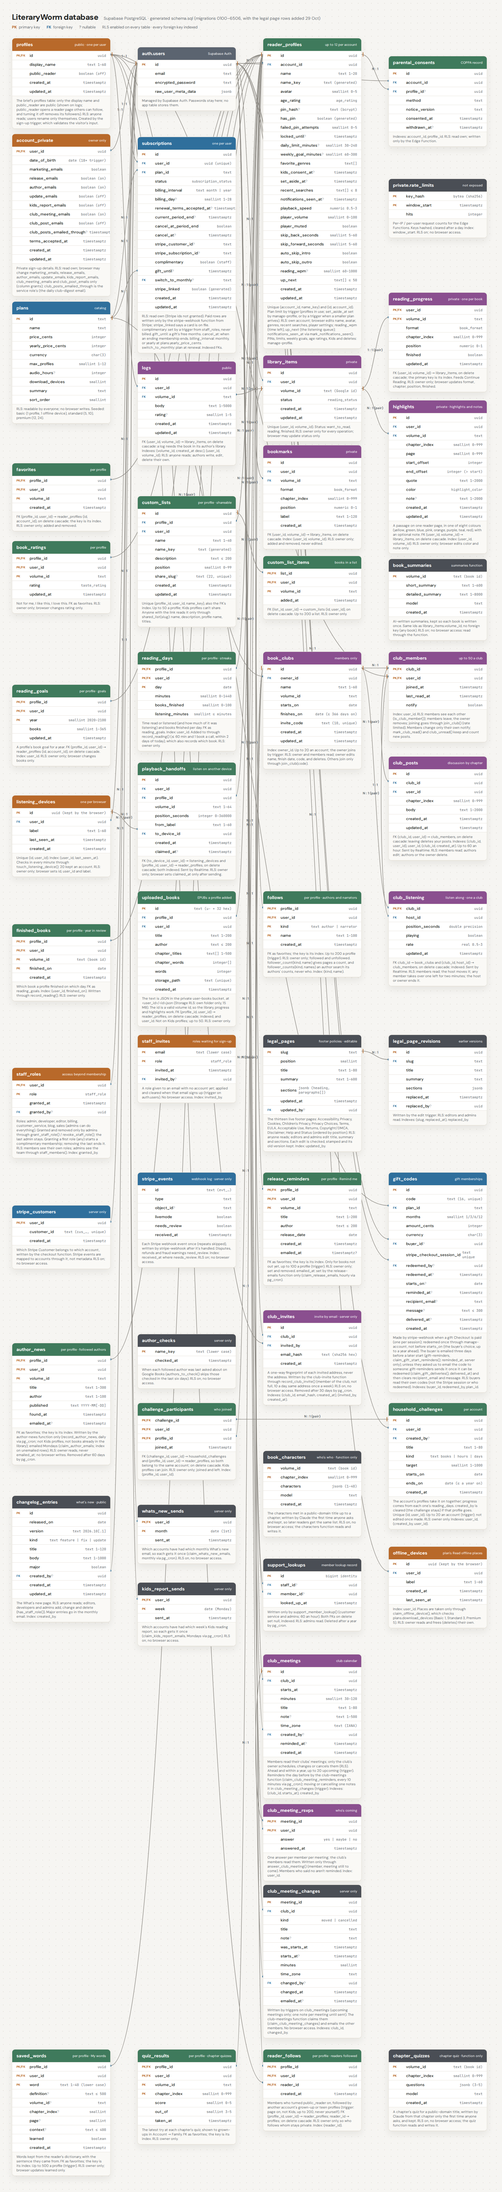
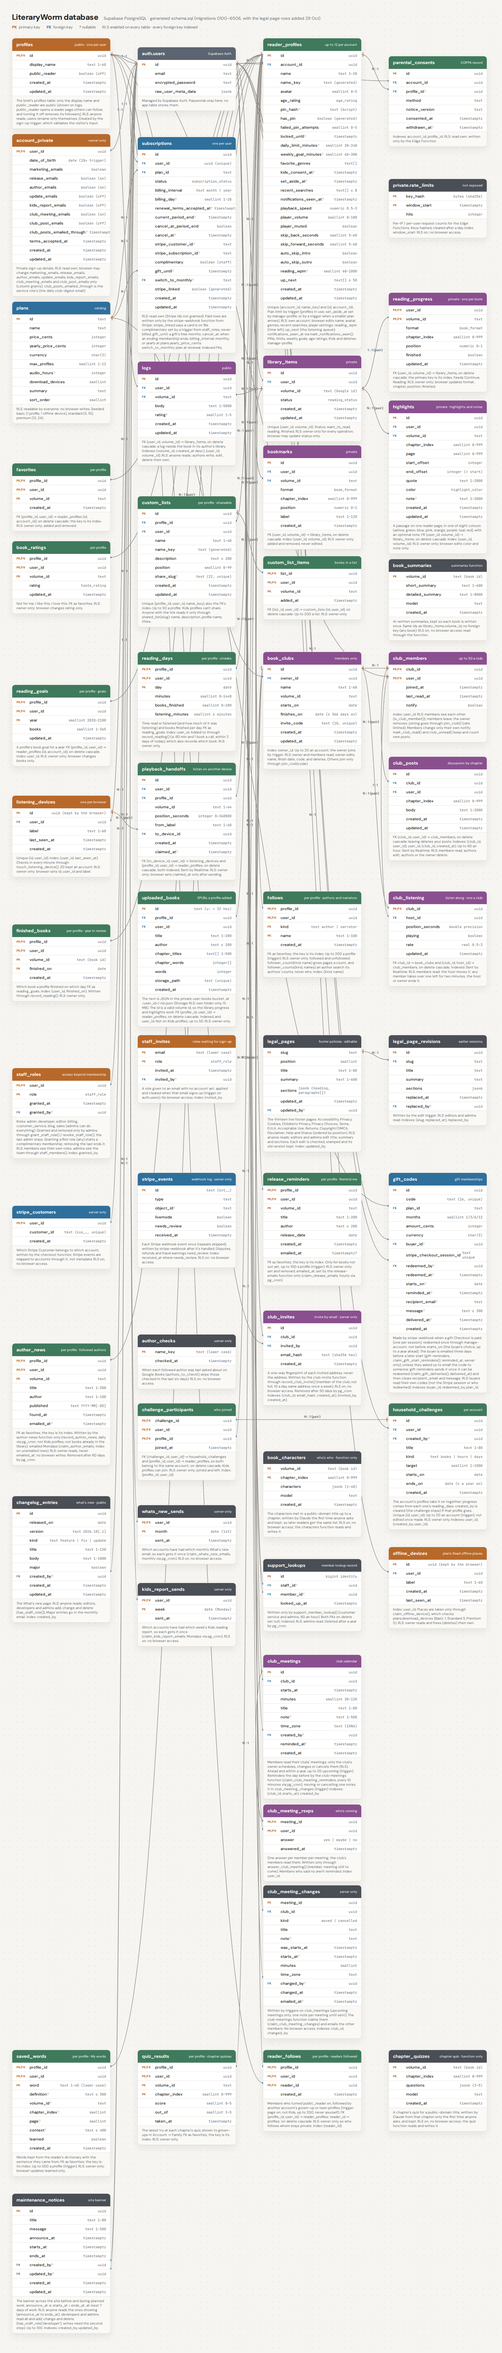
Docs: releasing dev first, maintenance notices, author Z–A; schema and ERD
docs/releasing.md explains dev first, then main: the dev branch and the
Supabase dev branch, migrations applied there first, CI, announcing planned
work, production migrations and functions, and scripts/promote.sh. CLAUDE.md,
user_journey 178-179, user_stories, the style guide, prompt.md and the app
README follow. schema.sql and drawsql.png gain maintenance_notices.

diff --git a/docs/erd/erd.html b/docs/erd/erd.html
@@ -532,6 +532,22 @@
           note: "A chapter's quiz for a public-domain title, written by Claude from that chapter only the first time anyone asks, and kept. RLS on, no browser access; the quiz function reads and writes it.",
         },
         {
+          id: "maintenance_notices", color: colors.server, x: 0, y: 7200, sub: "site banner",
+          cols: [
+            ["pk", "id", "uuid"],
+            ["", "title", "text 1–80"],
+            ["", "message", "text 1–500"],
+            ["", "announce_at", "timestamptz"],
+            ["", "starts_at", "timestamptz"],
+            ["", "ends_at", "timestamptz"],
+            ["fk", "created_by", "uuid", true],
+            ["fk", "updated_by", "uuid", true],
+            ["", "created_at", "timestamptz"],
+            ["", "updated_at", "timestamptz"],
+          ],
+          note: "The banner across the site before and during planned work; announce_at ≤ starts_at < ends_at, at most 7 days of work. RLS: anyone reads the ones showing (announce_at to ends_at); developers and admins read all and add, change and delete (has_staff_role('developer'); writes need the second step). Up to 100. Indexes: created_by, updated_by.",
+        },
+        {
           id: "book_characters", color: colors.server, x: 840, y: 4720, sub: "who's who · function only",
           cols: [
             ["pk", "volume_id", "text (book id)"],
@@ -846,6 +862,8 @@
         ["author_news", "profile_id", "reader_profiles", "id", "N : 1 (pair)"],
         ["household_challenges", "user_id", "auth.users", "id", "N : 1"],
         ["changelog_entries", "created_by", "auth.users", "id", "N : 1"],
+        ["maintenance_notices", "created_by", "auth.users", "id", "N : 1"],
+        ["maintenance_notices", "updated_by", "auth.users", "id", "N : 1"],
         ["whats_new_sends", "user_id", "auth.users", "id", "N : 1"],
         ["kids_report_sends", "user_id", "auth.users", "id", "N : 1"],
         ["club_meetings", "club_id", "book_clubs", "id", "N : 1"],

diff --git a/CLAUDE.md b/CLAUDE.md
@@ -10,6 +10,7 @@ LiteraryWorm is a reading and listening app (ebooks and audiobooks, household pr
 - `supabase/`: migrations, Edge Functions (`books`, `manage-profile`, `checkout`, `manage-account`, `stripe-webhook`, `release-emails`, `club-invite`, `author-news`, `dictionary`, `characters`, `whats-new`, `kids-report`, `club-meetings`, `club-digest`, `gift-reminders`, `club-calendar`, `unsubscribe`, `summaries`, `ask`, `quiz`), Auth email templates (`templates/`), security tests. See `supabase/README.md`. Project: `literaryworm` (ref `ldzdmrdvmacpudsbngvd`). The app is deployed on Vercel at `https://www.literaryworm.com`; `https://www.literaryworm.com`, `https://literaryworm.com` and `http://localhost:5173` must all be in the `ALLOWED_ORIGINS` function setting, or the browser blocks the functions' answers and the app reports "offline".
 - `schema.sql`: generated from the migrations by `supabase/build-schema.sh`; don't edit by hand. `drawsql.png` is its ERD, rendered from `docs/erd/erd.html`.
 - `prompt.md`: the build brief and phase plan.
+- `docs/releasing.md`: how a change reaches the live site, dev first (the `dev` branch, the Supabase dev branch `literaryworm-dev`, ref `xjvisabdztxvnsglysdh`, and the dev preview), then main through `scripts/promote.sh`.
 - `vite-project/`: an unrelated earlier scaffold. Don't use it.
 
 ## Commands (run in `front_end/literaryworm_app`)
@@ -76,6 +77,7 @@ npm run test:e2e  # Jest + Playwright smoke tests (e2e/*.e2e.ts) on the demo; mu
 - Modals use `src/components/Dialog.tsx` (native `<dialog>`). Profile-protected changes ask for the account password with `AccountPasswordField`.
 - **Two-step sign-in** (Supabase Auth MFA, TOTP; `accountApi.ts`, Account → Sign-in, the code step in `pages/SignIn.tsx`): `useAuthSync` sets `state.secondStep` and loads nothing until the code is given. Every member table has a restrictive policy `(select public.second_step_done())` (migration 2100): give any new member table one too, and make a new security-definer function check `second_step_done()`. `requireUser()` in the functions refuses a password-only session. Never sign in on the app's Supabase client to re-check a password (`verifyPassword()` asks Auth directly), or the session drops to password-only.
 - **Passkeys** (Supabase Auth WebAuthn, `auth.passkey.*`, `registerPasskey()`, `signInWithPasskey()`; supabase-js 2.105 or later, on by default since 2.117): the calls are in `accountApi.ts` (`listPasskeys()`, `addPasskey()`, which checks the account password with `verifyPassword()` first, `renamePasskey()`, `deletePasskey()`, `signInWithPasskey()`, which sets `signingInHere` like `signIn()`); rules and words in `lib/passkeys.ts` (`passkeyMessage()`, `passkeyNameError()`, `PASSKEY_NAME_MAX` 120, `passkeysSupported()`); the panel is `Passkeys` in `pages/Account.tsx`, the button on `pages/SignIn.tsx`. Production Auth must have passkeys on with relying party ID `literaryworm.com` and origins `https://www.literaryworm.com,https://literaryworm.com`; never change the ID once members have passkeys (every passkey stops working). A passkey replaces the password, not the second step: `useAuthSync` still asks for the code when two-step is on. The keys live in Supabase's `auth.webauthn_credentials`; never read it from the browser. Keep the Privacy Policy, Cookie Policy and Help saying what's kept.
+- **Maintenance notices** (`lib/maintenance.ts` for the rules and times, `lib/maintenanceApi.ts`, `components/MaintenanceBanner.tsx` above the header in `SiteLayout`, `pages/Maintenance.tsx` at `/maintenance`, lazy-loaded, linked from Team access): `maintenance_notices` (title, message, `announce_at` ≤ `starts_at` < `ends_at`, at most 7 days of work announced at most 30 days ahead, up to 100; a trigger sets `created_by`, `updated_by` and the times). RLS: anyone reads the ones showing (`announce_at` to `ends_at`); developers and admins (`has_staff_role('developer')`) read all and write, and writes need the second step. The banner checks on load, every 5 minutes (`NOTICE_REFRESH_MS`) and when the tab comes back, shows times in the reader's zone (`noticeWhen()`), and Hide lasts until a refresh (in memory). `noticeErrors()` mirrors the table's checks.
 - **My words** (`lib/words.ts`, `lib/useWords.ts`, `components/WordsView.tsx` in My Library → Words): per profile in `saved_words` (saved first, up to 500, `WORDS_MAX`), from the reader's dictionary; `learned` is the only column that changes. **Export** of notes and highlights (`lib/exportNotes.ts`, `components/NotesView.tsx`, `lib/useNotesBooks.ts`): Markdown or plain text made in the browser and downloaded, never uploaded.
 - **Series** come from `data/series.ts` (book ids in reading order) through `lib/series.ts` (`seriesOf()`, `nextInSeries()`, `continueSeries()` for Home, `seriesPath()`); `/series/:name` is `pages/Series.tsx`. A new series is a `data/series.ts` entry, catalog ids only.
 - **Time left** (`lib/pace.ts`, `lib/useReadingPace.ts`): the reader blends each page's words a minute into `reader_profiles.reading_wpm` (60–1000, saved in the background, `DEFAULT_WPM` until known); the player divides the seconds left by its speed.
@@ -85,18 +87,18 @@ npm run test:e2e  # Jest + Playwright smoke tests (e2e/*.e2e.ts) on the demo; mu
 - **Chapter quizzes** (`lib/quizApi.ts`, `lib/quiz.ts`, `lib/useQuizResults.ts`, `components/QuizDialog.tsx`) call only the `quiz` Edge Function, which has Claude (`claude-haiku-5-5`, structured output) write 3–5 questions from one public-domain chapter's text, nothing about the reader, keeps them in `chapter_quizzes` (service role only) so every reader gets the same quiz, checks them (`isQuestion()` on both sides) and limits new ones per IP and per day. Scores go to `quiz_results` (per profile, private to the account); Kids profiles take quizzes, and Account → Family shows their scores.
 - **Following readers** (`lib/useReaderFollows.ts`, `components/ReaderFollowButton.tsx`, `components/ReadersView.tsx`, `pages/ReaderProfile.tsx` at `/readers/:id`): a member turns on `profiles.public_reader` (off by default) to gather their published logs on a public page (`fetchReader()` / `fetchReaderLogs()` in `lib/logsApi.ts`, display names and logs only); grown-up and teen profiles follow it through `reader_follows`, readable only by the follower's account, never counted or shown. Turning the page off removes its follows (trigger). Keep the Privacy Policy saying so.
 - **Car mode and Cast** (`components/CarMode.tsx`, `lib/cast.ts`): car mode is a view of the playback provider with the Screen Wake Lock while open; Cast is the browser's Remote Playback API on the LibriVox audio element (no third-party script, nothing stored), so device voices can't be cast. Both are in the player and the mini-player's *More* menu (add controls to both).
-- **My Library sort** (`lib/librarySort.ts`): `?sort=` with the `status` filter (`readLibrarySort()`; *added* is the default and leaves the address bare); titles drop a leading *The*/*A*/*An* and compare numbers as numbers (`Intl.Collator`, `numeric`), authors sort by the first author's surname, unknown years go last; Google titles sort by the details their rows looked up. Change one parameter from `window.location.search`, not the render's `params`, so a quick second change keeps the first. Uploads use `sortUploads()`.
+- **My Library sort** (`lib/librarySort.ts`): `?sort=` with the `status` filter (`readLibrarySort()`; *added* is the default and leaves the address bare); titles drop a leading *The*/*A*/*An* and compare numbers as numbers (`Intl.Collator`, `numeric`), authors sort by the first author's surname (A–Z or Z–A, ties by title A–Z), unknown years go last; Google titles sort by the details their rows looked up. Change one parameter from `window.location.search`, not the render's `params`, so a quick second change keeps the first. Uploads use `sortUploads()`.
 
 ## Phase workflow
 
 Build in phases (see `prompt.md`). At the end of each phase:
 
-1. `npm run build`, `npm run lint`, `npm test` and `npm run test:e2e` clean (GitHub Actions runs all four on every push to `main`, `.github/workflows/ci.yml`). A new page or flow gets a smoke test in `e2e/smoke.e2e.ts`. New logic in `src/lib` gets tests beside it (`*.test.ts`). The paging snapshots in `src/lib/__snapshots__` must not change unless paging is meant to (saved highlights depend on it).
+1. `npm run build`, `npm run lint`, `npm test` and `npm run test:e2e` clean (GitHub Actions runs all four on every push to `dev` and `main`, `.github/workflows/ci.yml`). A new page or flow gets a smoke test in `e2e/smoke.e2e.ts`. New logic in `src/lib` gets tests beside it (`*.test.ts`). The paging snapshots in `src/lib/__snapshots__` must not change unless paging is meant to (saved highlights depend on it).
 2. Playwright screenshots at 1440px and 390px, compared against the wireframe; save keepers to `front_end/literaryworm_app/docs/screenshots/`.
 3. Chrome DevTools: no console errors; Lighthouse accessibility 100.
 4. Update `schema.sql` and re-render `drawsql.png` for any new data.
 5. Update the docs (app README phase table, `user_stories.md` build status, `user_journey.md` build notes, root `README.md` project status).
-6. Commit only the files for that work, push to `main`, and stop for the user's review.
+6. Commit only the files for that work on `dev`, apply its migrations to the Supabase dev branch first, push `dev`, and stop for the user's review. Production migrations, function deploys and `scripts/promote.sh` (which moves `main` to `dev` only when every test and dev's CI pass) follow `docs/releasing.md`, with the user's approval.
 
 ## Rules that must not be broken
 

diff --git a/front_end/user_journey.md b/front_end/user_journey.md
@@ -748,9 +748,11 @@ The front end lives in `front_end/literaryworm_app` (React + TypeScript + Vite, 
 172. **Chapter quizzes.** In the reader of a public-domain book, *Chapter quiz* asks three to five multiple-choice questions about the chapter the profile is on, explaining each answer, then gives the score (*4 out of 5*). Claude writes a chapter's quiz from that chapter only, the first time anyone asks, and it's kept so every reader gets the same one. Offered to every profile, Kids included; grown-ups see a Kids profile's latest scores in Account → Family.
 173. **Following readers.** Account → Preferences has *Let other readers follow me* (off by default). Turned on, the member gets a public reader page at `/readers/:id` listing the logs they've already published under their display name; a sharing reader's name on a book's logs links to it, with *Follow* for grown-up and teen profiles. My Library → *Readers* shows the newest logs from the readers a profile follows. Who follows whom is never shown, and turning the page off removes its followers.
 174. **Car mode and Cast.** The player's *Car mode* fills the screen with the title, the time left and five big buttons (previous chapter, back, play or pause, forward, next chapter) and keeps the screen on while it's open. Where the browser supports it, *Cast* sends a public-domain book's recording to a Chromecast or AirPlay speaker or TV through the browser's own picker; device voices can't be cast. Both are in the mini-player's *More* menu too.
-175. **Sort My library.** My library has *Sort by* beside the *Show* chips: *Recently added*, *Oldest added*, *Recently changed*, *Title A–Z*, *Title Z–A*, *Numbers first (0–9)*, *Author A–Z* (by surname), *Published, newest* and *Published, oldest*. A leading *The*, *A* or *An* doesn't count, numbers sort as numbers (2, 20, 1984), and books whose year isn't known go last. The choice stays in the address with the filter (`?status=reading&sort=title`). Uploads sort by the date they were uploaded or by title.
+175. **Sort My library.** My library has *Sort by* beside the *Show* chips: *Recently added*, *Oldest added*, *Recently changed*, *Title A–Z*, *Title Z–A*, *Numbers first (0–9)*, *Author A–Z* and *Author Z–A* (by surname), *Published, newest* and *Published, oldest*. A leading *The*, *A* or *An* doesn't count, numbers sort as numbers (2, 20, 1984), and books whose year isn't known go last. The choice stays in the address with the filter (`?status=reading&sort=title`). Uploads sort by the date they were uploaded or by title.
 176. **Search by from the header.** The search box at the top of every page has a *Search by* choice: *Title*, *Author* and, for grown-up and teen profiles with the backend, *ISBN*. It opens Search with that choice (`/search?q=…&by=author`); an ISBN is cleaned of hyphens and spaces first.
 177. **Passkeys.** Account → *Sign-in* has *Passkeys*: *Add a passkey* asks for the account password (so a signed-in browser left open can't quietly add a way in), then the browser asks for Face ID, Touch ID, Windows Hello, the phone's screen lock, a password manager or a security key. Each passkey is listed by the name Supabase gives it from where it's kept (*iCloud Keychain*, *1Password*, *YubiKey 5C*) with when it was added and last used; *Rename* (up to 120 characters) and *Remove* (it then can't log in; the device may still list it) are beside it. The log-in page has *Log in with a passkey*: no email is typed, since the passkey picks the account. A passkey replaces the password, not the second step: with two-step sign-in on, the code is still asked for. Passkeys are offered only with the backend and in browsers that can make them; the demo can't add them. *Download my data* lists each passkey's name and dates.
+178. **Notices before planned updates.** Developers and admins open *Maintenance notices* from Account → Team access (`/maintenance`): a title, a message, when the work starts and ends, and when the notice starts showing (up to 30 days ahead; the work up to 7 days), with a preview of the banner. Every notice is listed with where it stands (*Not showing yet*, *Showing*, *Happening now*, *Over*) and *Edit* and *Delete*. Everyone, visitors included, sees a showing notice as a banner above the header on every page: the title, when the work runs in their own time zone (*Sat 2 Nov, 02:00–02:30 CDT*) and the message, with *Happening now* while it's under way; *Hide* puts it away until the next refresh.
+179. **Dev first, then the live site.** Changes land on the `dev` branch and the Supabase dev branch first (the dev branch's policies and What's new were copied from production), are tested there and on the dev preview, and reach www.literaryworm.com only through `scripts/promote.sh`, which checks the four test suites, dev's CI and that production has the new migrations before moving `main` (`docs/releasing.md`). My library also sorts by *Author Z–A*.
 162. **Plans and prices in search results.** The description search engines show for the site names Basic $9.99, Standard $14.99 or Premium $24.99 a month and the yearly saving; Plans has its own, with the yearly prices; structured data gives each plan's monthly and yearly price; `sitemap.xml` lists the public pages.
 161. **300 more classics.** The catalog has 871 public-domain titles: *Ulysses*, *The Divine Comedy*, *Paradise Lost*, *Beowulf*, *Leaves of Grass*, *Pinocchio*, *The Blue Fairy Book*, *Rob Roy*, Grant's memoirs and *Two Years Before the Mast* among them, each to read in full and hear on its LibriVox recording.
 160. **New Basic price.** Basic is $9.99 a month ($99.90 a year): Plans shows *$99.90/year, $8.33 a month, instead of $9.99*, and the bell's yearly offer on Basic says *save $19.98*. Nobody was paying the old Basic price through Stripe, so no member's price changed.

diff --git a/docs/releasing.md b/docs/releasing.md
@@ -1,0 +1,62 @@
+# Releasing: dev first, then main
+
+Every change reaches readers in two steps. It lands on **dev**, where it's tested against the dev database, and only then moves to **main**, which is the live site at www.literaryworm.com.
+
+| | Code (git) | Website (Vercel) | Database (Supabase) |
+| --- | --- | --- | --- |
+| **dev** | the `dev` branch | the `dev` branch's preview deployment | the `literaryworm-dev` branch (ref `xjvisabdztxvnsglysdh`) |
+| **main** | the `main` branch | www.literaryworm.com | the `literaryworm` project (ref `ldzdmrdvmacpudsbngvd`) |
+
+## 1. Build on dev
+
+```bash
+git checkout dev
+# ...make the change, with tests...
+```
+
+Before every commit, in `front_end/literaryworm_app`: `npm run build`, `npm run lint`, `npm test` and `npm run test:e2e` all pass (CLAUDE.md, *Phase workflow*).
+
+## 2. Database changes go to the dev branch first
+
+Apply each new migration in `supabase/migrations` to the **dev branch**, one at a time, in order. Migrations that are a single `CREATE INDEX CONCURRENTLY` run through `execute_sql`, not `apply_migration`. Then check the change there: the security and performance advisors, and the table's access rules, tested inside a transaction that's rolled back. The dev branch has no member accounts; create a throwaway one inside that transaction, with `display_name`, `date_of_birth` and `terms_accepted` in `raw_user_meta_data`.
+
+Migrations aren't applied by CI. Production's migration history doesn't match the file names (they were applied with their own timestamps), so `supabase db push` would try to run everything again.
+
+## 3. Push dev and let CI run
+
+```bash
+git push origin dev
+gh run watch          # CI runs the four test suites and the Edge Functions' Deno checks
+```
+
+Open the dev preview from Vercel and try the change there.
+
+## 4. Announce planned work (when readers might notice)
+
+At **/maintenance** (developers and admins; Account → Team access → *Maintenance notices*), add a notice: a title, a message, when the work starts and ends, and when the notice starts showing (up to 30 days ahead). It shows as a banner across every page from then until the work ends, in each reader's own time zone. Edit or delete it there at any time.
+
+## 5. Production database and functions
+
+Apply the same migrations to **production**, one at a time and in the same order, once a person has approved it. Deploy any changed Edge Functions (`supabase functions deploy <name>`); redeploy every function that imports a changed file in `supabase/functions/_shared`. Apply migrations before promoting code that reads new tables or columns: if the code goes first, members see errors until the migration is applied.
+
+## 6. Promote dev to main
+
+```bash
+scripts/promote.sh --dry-run   # every check, no push
+scripts/promote.sh             # the same checks, then pushes dev to main
+```
+
+The script stops, changing nothing, unless:
+- you're on `dev`, with no uncommitted changes to tracked files, and `dev` is pushed;
+- `main` hasn't moved on its own, so this is a fast-forward (otherwise merge `origin/main` into `dev`, test and push first);
+- the build, lint, unit tests and end-to-end tests pass;
+- GitHub's CI run for `dev`'s latest commit finished green;
+- you confirm that the new migrations it lists are on production and the changed functions are deployed.
+
+It then pushes `dev` to `main` (`main` is never checked out, so your working files aren't touched), and Vercel deploys the live site.
+
+## Setting up the dev site (once)
+
+- **Vercel:** in the project's Environment Variables, give the **Preview** environment (or just the `dev` branch) `VITE_SUPABASE_URL=https://xjvisabdztxvnsglysdh.supabase.co` and the dev branch's publishable key as `VITE_SUPABASE_PUBLISHABLE_KEY`. Production keeps the main project's values. A fixed address such as dev.literaryworm.com (a domain assigned to the `dev` branch) makes the next two steps simpler.
+- **Supabase dev branch:** add the dev site's address to the functions' `ALLOWED_ORIGINS` setting, or the browser blocks their answers. For passkeys there, set the Relying Party ID to `literaryworm.com` with the dev site's origin (works for dev.literaryworm.com, not for `*.vercel.app` previews).
+- **Data:** the dev branch's policies and What's new were copied from production on 31 October 2026. Do it again whenever they drift: export `legal_pages` and `changelog_entries` from production and upsert them on the dev branch.

diff --git a/user_stories.md b/user_stories.md
@@ -309,9 +309,12 @@ Tracks each story against the front-end build in `front_end/literaryworm_app`. T
 | Chapter quizzes (new request) | — | Done | The `quiz` Edge Function has Claude write 3–5 questions from one public-domain chapter, kept in `chapter_quizzes`; scores in `quiz_results`; Kids included, and grown-ups see Kids scores in Account → Family. |
 | Follow other readers (new request) | — | Done | An opt-in public reader page (`profiles.public_reader`, `/readers/:id`) of a member's published logs; `reader_follows` is private to the follower; My Library → Readers. |
 | Car mode and Cast (new request) | — | Done | A full-screen player with five big buttons and the screen kept on; Cast through the browser's Remote Playback (Chromecast, AirPlay) for LibriVox recordings. |
-| Sort My library (new request) | — | Done | Nine sorts (added, oldest added, changed, title A–Z and Z–A, numbers first, author, published newest and oldest) kept in `?sort=` with the status filter; uploads by date or title. |
+| Sort My library (new request) | — | Done | Ten sorts (added, oldest added, changed, title A–Z and Z–A, numbers first, author A–Z and Z–A, published newest and oldest) kept in `?sort=` with the status filter; uploads by date or title. |
 | Search by from the header (new request) | — | Done | The header's search box chooses Title, Author or ISBN (ISBN not for Kids profiles or without the backend). |
 | Passkeys (new request) | — | Done | Account → Sign-in adds a passkey (password first, then Face ID, Touch ID, Windows Hello, a phone's screen lock, a password manager or a security key), lists each with its dates, renames and removes them; the log-in page has *Log in with a passkey*. Supabase Auth's passkey API (experimental); a passkey replaces the password, and the two-step code is still asked for when that's on. |
+| Maintenance notices (new request) | — | Done | Developers and admins add, edit and delete notices at `/maintenance` (`maintenance_notices`, RLS through `has_staff_role('developer')`); a banner on every page shows them from when they're announced until the work ends, in the reader's time zone. |
+| Dev first, then main (new request) | — | Done | A `dev` branch tested by CI, the Supabase dev branch with production's policies and What's new copied over, and `scripts/promote.sh` (with `--dry-run`), which moves `main` to `dev` only when the tests and dev's CI pass and production has the migrations (`docs/releasing.md`). |
+| Sort My library by author Z–A (new request) | — | Done | *Author Z–A* beside *Author A–Z* (by surname; ties by title A–Z). |
 | Follower counts in author search (follow-up) | — | Done | *Authors* cards in an author search show *12 followers* (one `follower_counts()` call for the list; a count, never who). |
 | Gift start reminder (follow-up) | — | Done | The buyer of a gift for a later day is emailed three days before it starts (the `gift-reminders` function, daily), without the code. |
 | Kids report in groups (follow-up) | — | Done | Account → Family and the Monday email group Kids profiles: still working on their goal, no reading yet, reading without a goal, goal reached. |

diff --git a/front_end/style_guide.md b/front_end/style_guide.md
@@ -284,6 +284,10 @@ Scale (rem; 1rem = 16px, multiplied by the text-size setting):
 
 **Passkeys.** In Account → *Sign-in*, above two-step sign-in: a paragraph on what a passkey is (*your face, fingerprint, screen lock or a security key*) and that faces and fingerprints never leave the device, then the list: a rust key icon, the name in bold (wrapping, never cut off), *Added 31 Oct 2026 · last used …* muted below, and *Rename* and *Remove* as 44px text buttons at the end (under the name below 480px). *Add a passkey* is a secondary button with a key icon; its dialog asks for the account password and its button says *Waiting for your device…* while the browser's prompt is open. Removing asks first, in a small dialog with *Remove* (danger) and *Keep it*. On the log-in page, *Log in with a passkey* is a secondary button with the key icon, under *or* and above *Try the demo*.
 
+**Maintenance banner.** Full width above the header on every site page, on the rust wash (the red danger wash once the work is under way): an alert icon, the title in bold (*Happening now: …* during the work), when it runs in semibold with the reader's time zone, then the message; a 44px *Hide* cross at the end. Several notices stack, separated by a hairline. It wraps rather than scrolls on phones.
+
+**Maintenance notices page.** `/maintenance` uses the dashboard page layout: a short paragraph, then the form in a raised card (Title; Message as a textarea with a character count; *Work starts*, *Work ends* and *Show the notice from* as date-and-time fields side by side, stacking on phones), a live preview of the banner, and *Add notice* (or *Save notice* and *Cancel editing*). Below, *All notices*: each with its title, a status pill (*Not showing yet* grey, *Showing* rust, *Happening now* red, *Over* faded), when it runs, the message and when it shows from, with *Edit* and *Delete* as 44px text buttons. Deleting asks first.
+
 **Author and narrator pages.** A round 88px mark on the rust wash with the person's initials (64px on phones), the role as eyebrow, the name in the display face, a muted count of titles, then *Follow* (primary, plus icon) or *Following* (secondary, check icon, `aria-pressed`). Below, the usual rows: *Read or listen now* and *From Google Books*. Names on the book page are links in the byline's soft ink with a faint underline that turns solid and brighter on hover.
 
 **Remind me.** On a book that isn't out yet: a bordered box with a clock icon and *Not out yet: due **June 3, 2027***, then *Remind me* (primary, bell icon) or *Reminder set* (secondary, check, `aria-pressed`) and a muted line saying where it will show. Home's *Out now* is a card on the surface colour with a bell in a rust-wash circle, the heading and *All reminders*; reminders are ruled rows (title link, author, *Due …* or *Out now* in green, then *Remove* or *Dismiss*).

diff --git a/front_end/literaryworm_app/README.md b/front_end/literaryworm_app/README.md
@@ -51,6 +51,7 @@ Use **Try the demo** on the sign-in page to get a household with three profiles:
 | `/gifts` | Buy a gift membership, your gift codes, and redeem one | Signed in |
 | `/clubs/join/:code` | Where a club invitation email links: joins the club with its code, then opens it | Profile chosen (visitors sign in first and come back) |
 | `/dashboard` | Staff dashboard: totals for accounts, memberships, reading and clubs | Profile chosen; billing staff and admins |
+| `/maintenance` | Maintenance notices: add, edit and delete the banner shown before and during planned work | Profile chosen; developers and admins |
 | `/lists/:slug` | A custom list shared by link: name, description, the profile's name and its books | Public |
 | `/read/:id`, `/listen/:id` | Reader (with highlights, notes and the dictionary) and audiobook player (with the read-along transcript); full screen, loaded on demand; LiteraryWorm titles the profile may see | Profile chosen |
 
@@ -186,3 +187,4 @@ Lighthouse check, a clean `npm run build`, `npm run lint`, `npm test` and `npm r
 | — | Chapter quizzes (`quiz` function, `chapter_quizzes`, `quiz_results`, `QuizDialog`, migration 6504), following readers (`reader_follows`, `profiles.public_reader`, `pages/ReaderProfile.tsx`, migrations 6505 and 6506), Car mode and Cast (`CarMode`, `lib/cast.ts`) |
 | — | My library *Sort by* (`lib/librarySort.ts`, `?sort=`), uploads sorted by date or title, and *Search by* in the header's search box; What's new (migration 6507), the policies (6508) |
 | — | Passkeys: Account → Sign-in adds (password first), lists, renames and removes them, and the log-in page has *Log in with a passkey* (`lib/passkeys.ts`, the passkey calls in `lib/accountApi.ts`, Supabase Auth WebAuthn, supabase-js 2.117.3); What's new (migration 6509) and the Privacy, Cookie and Help pages (6510) |
+| — | Maintenance notices (`lib/maintenance.ts`, `lib/maintenanceApi.ts`, `MaintenanceBanner`, `pages/Maintenance.tsx`, `maintenance_notices`, migrations 6512–6514, What's new 6515); My library *Author Z–A* (What's new 6511); releases go dev first (`docs/releasing.md`, `scripts/promote.sh`) |

diff --git a/prompt.md b/prompt.md
@@ -100,6 +100,8 @@ My library then gained *Sort by* (title, numbers first, author, when added or ch
 
 Then members could add passkeys in Account → Sign-in (Face ID, Touch ID, Windows Hello, a phone's screen lock, a password manager or a security key), rename and remove them, and log in with one instead of the password, through Supabase Auth's passkey API.
 
+Then releases became dev first: a `dev` branch tested by CI against the Supabase dev branch (given production's policies and What's new), and `scripts/promote.sh`, which moves `main` only when every test passes. Developers and admins can announce planned work with maintenance notices, a banner across the site, and My library sorts by author Z–A as well.
+
 The site's description, structured data and sitemap then gave search engines the plans and prices (`lib/seo.ts`).
 
 ## Code
